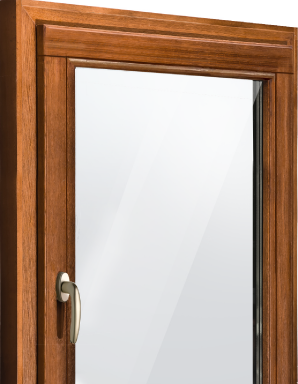
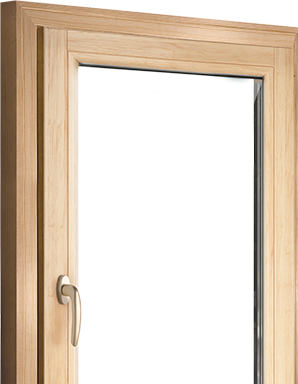
переделан блок Деревянные окна нового поколения

diff --git a/rusokon/index-3.html b/rusokon/index-3.html
@@ -311,61 +311,50 @@
 				</div>
 			</div>
 
+
 			<!-- Секция. Деревянное остекление коттеджей  -->
-			<div class="uk-section uk-section-default">
+			<div class="uk-section">
 				<div class="uk-container">
-					<h2 class="uk-h1 uk-text-center">Деревянные окна  нового поколения</h2>
-					<hr class="uk-divider-primary uk-divider-small uk-margin-medium uk-text-center">
-					<div class="uk-card uk-card-default" uk-scrollspy="cls: uk-animation-slide-bottom-small">
-						<div class="uk-grid-collapse uk-grid" uk-grid uk-height-match>
-							<div class="uk-padding uk-visible@s" style="width: 50px;">
-								<div class="uk-child-width-1-1" uk-grid>
-									<!-- <div>
-										<img src="images/wood/icon-wood-1.png" alt="icon-wood-1" width="50" height="50">
-									</div> -->
-									<div>
-										<img src="images/wood/icon-wood-2.svg" alt="icon-wood-2">
-									</div>
-									<div>
-										<img src="images/wood/icon-wood-3.png" alt="icon-wood-3">
-									</div>
-								</div>
-							</div>
-							<div class="uk-width-expand@s">
-								<div class="uk-height-1-1 uk-flex uk-flex-center uk-flex-bottom uk-padding uk-padding-remove-bottom uk-padding-remove-horizontal">
-									<img src="images/wood/wood-1.png" alt="Wood Classic">
-								</div>
-							</div>
-							<div class="uk-padding uk-padding-remove-bottom uk-padding-remove-horizontal uk-width-1-1 uk-hidden@s">
-								<div class="uk-flex-center uk-child-width-auto" uk-grid>
-									<div>
-										<img class="" src="images/wood/icon-wood-1.png" alt="" width="50" height="50">
-									</div>
-									<div>
-										<img class="" src="images/wood/icon-wood-2.png" alt="" width="50" height="50">
-									</div>
-									<div>
-										<img class="" src="images/wood/icon-wood-3.png" alt="" width="50" height="50">
-									</div>
-								</div>
-							</div>
-							<div class="uk-width-1-2@m">
-								<div class="uk-card-body">
-									<h2 class="uk-h1">Wood Standart</h2>
-									<hr class="uk-hr">
-									<p class="uk-h2 uk-margin">от 15 210 руб./м<sup><small>2</small></sup></p>
-									<hr class="uk-hr">
-									<p>Классическая деревянная системма со стеклопакетом из отборной экологически чистой древесины. Превосходное сочетание современного европейского стиля и традиционных строких форм и линий.</p>
-									<div class="uk-flex-middle" uk-grid>
+					<div class="uk-child-width-1-2@m uk-grid-collapse uk-box-shadow-medium" uk-grid>
+						<!-- 1 -->
+						<div class="uk-flex uk-flex-center uk-background-muted uk-padding uk-padding-remove-bottom ">
+							<div class="uk-child-width-1-1 uk-child-width-auto@s uk-text-center uk-grid-collapse  " uk-grid>
+								<div><img src="images/wood/wood-1.png" alt=""></div>
+
+								<div class="custom-par uk-padding">
+									<div class="custom-icon-style uk-flex-center" uk-grid>
 										<div>
-											<a class="uk-button uk-button-primary uk-text-uppercase" href="#" uk-toggle="target: #modal-call">Рассчитать стоимость</a>
+											<div>
+												<img src="images/wood/icon-wood-1.png" alt="">
+											</div>
+											<div class="uk-text-small uk-text-muted">Сосна</div>
 										</div>
 										<div>
-											<p class="uk-text-small uk-text-muted">Акция действует<br> до 30.10.2017</p>
+											<div>
+												<img src="images/wood/icon-wood-3.png" alt="">
+											</div>
+											<div class="uk-text-small uk-text-muted">Без<br> сучков</div>
 										</div>
 									</div>
 								</div>
 							</div>
+						</div>
+						<!-- 2 -->
+						<div class="uk-padding">
+							<h2 class="uk-h1">Wood Standart</h2>
+							<hr class="uk-hr">
+							<p class="uk-h2 uk-margin">от 15 210 руб./м<sup><small>2</small></sup></p>
+							<hr class="uk-hr">
+							<p>Классическая деревянная системма со стеклопакетом из отборной экологически чистой древесины. Превосходное сочетание современного европейского стиля и традиционных строких форм и линий.</p>
+							<div class="uk-flex-middle" uk-grid>
+								<div>
+									<a class="uk-button uk-button-primary uk-text-uppercase uk-padding-small uk-padding-remove-vertical" href="#" uk-toggle="target: #modal-call">Рассчитать стоимость</a>
+								</div>
+								<div>
+									<p class="uk-text-small uk-text-muted">Акция действует<br> до 30.10.2017</p>
+								</div>
+							</div>
+
 						</div>
 					</div>
 
@@ -395,8 +384,12 @@
 						</div>
 					</div>
 
+
+
 				</div>
 			</div>
+
+
 			<!-- Секция с табами и формой -->
 			<div class="uk-section uk-section-muted">
 				<div class="uk-container">
@@ -414,7 +407,7 @@
 						</ul>
 						<div class="switcher-destroy uk-switcher" uk-margin="margin: uk-margin-medium">
 							<div class="uk-background-default uk-padding uk-box-shadow-medium">
-								<h2 class="uk-text-center">Профильная система Wood Classic</h2>
+								<h2 class="uk-text-center">Профильная система Wood Standart, сосна</h2>
 								<hr class="uk-margin-medium uk-visible@s">
 								<div class="uk-child-width-1-3@m" uk-grid>
 									<div class="uk-text-center">

diff --git a/rusokon/css/custom.css b/rusokon/css/custom.css
@@ -611,3 +611,26 @@
           margin-left: 0 !important;
       }
   }
+
+  /*Иконки в дереве выравиваются друг под другом на @s*/
+  @media (min-width: 640px) {
+    .custom-icon-style {
+      flex-direction: column !important;
+
+    }
+    .custom-par {
+        padding-top: 0;
+    }
+  }
+  @media (min-width: 960px) {
+
+    .custom-par {
+        padding: 0 0 0 15px;
+    }
+  }
+  @media (min-width: 1200px) {
+
+    .custom-par {
+        padding: 0 0 0 40px;
+    }
+  }
